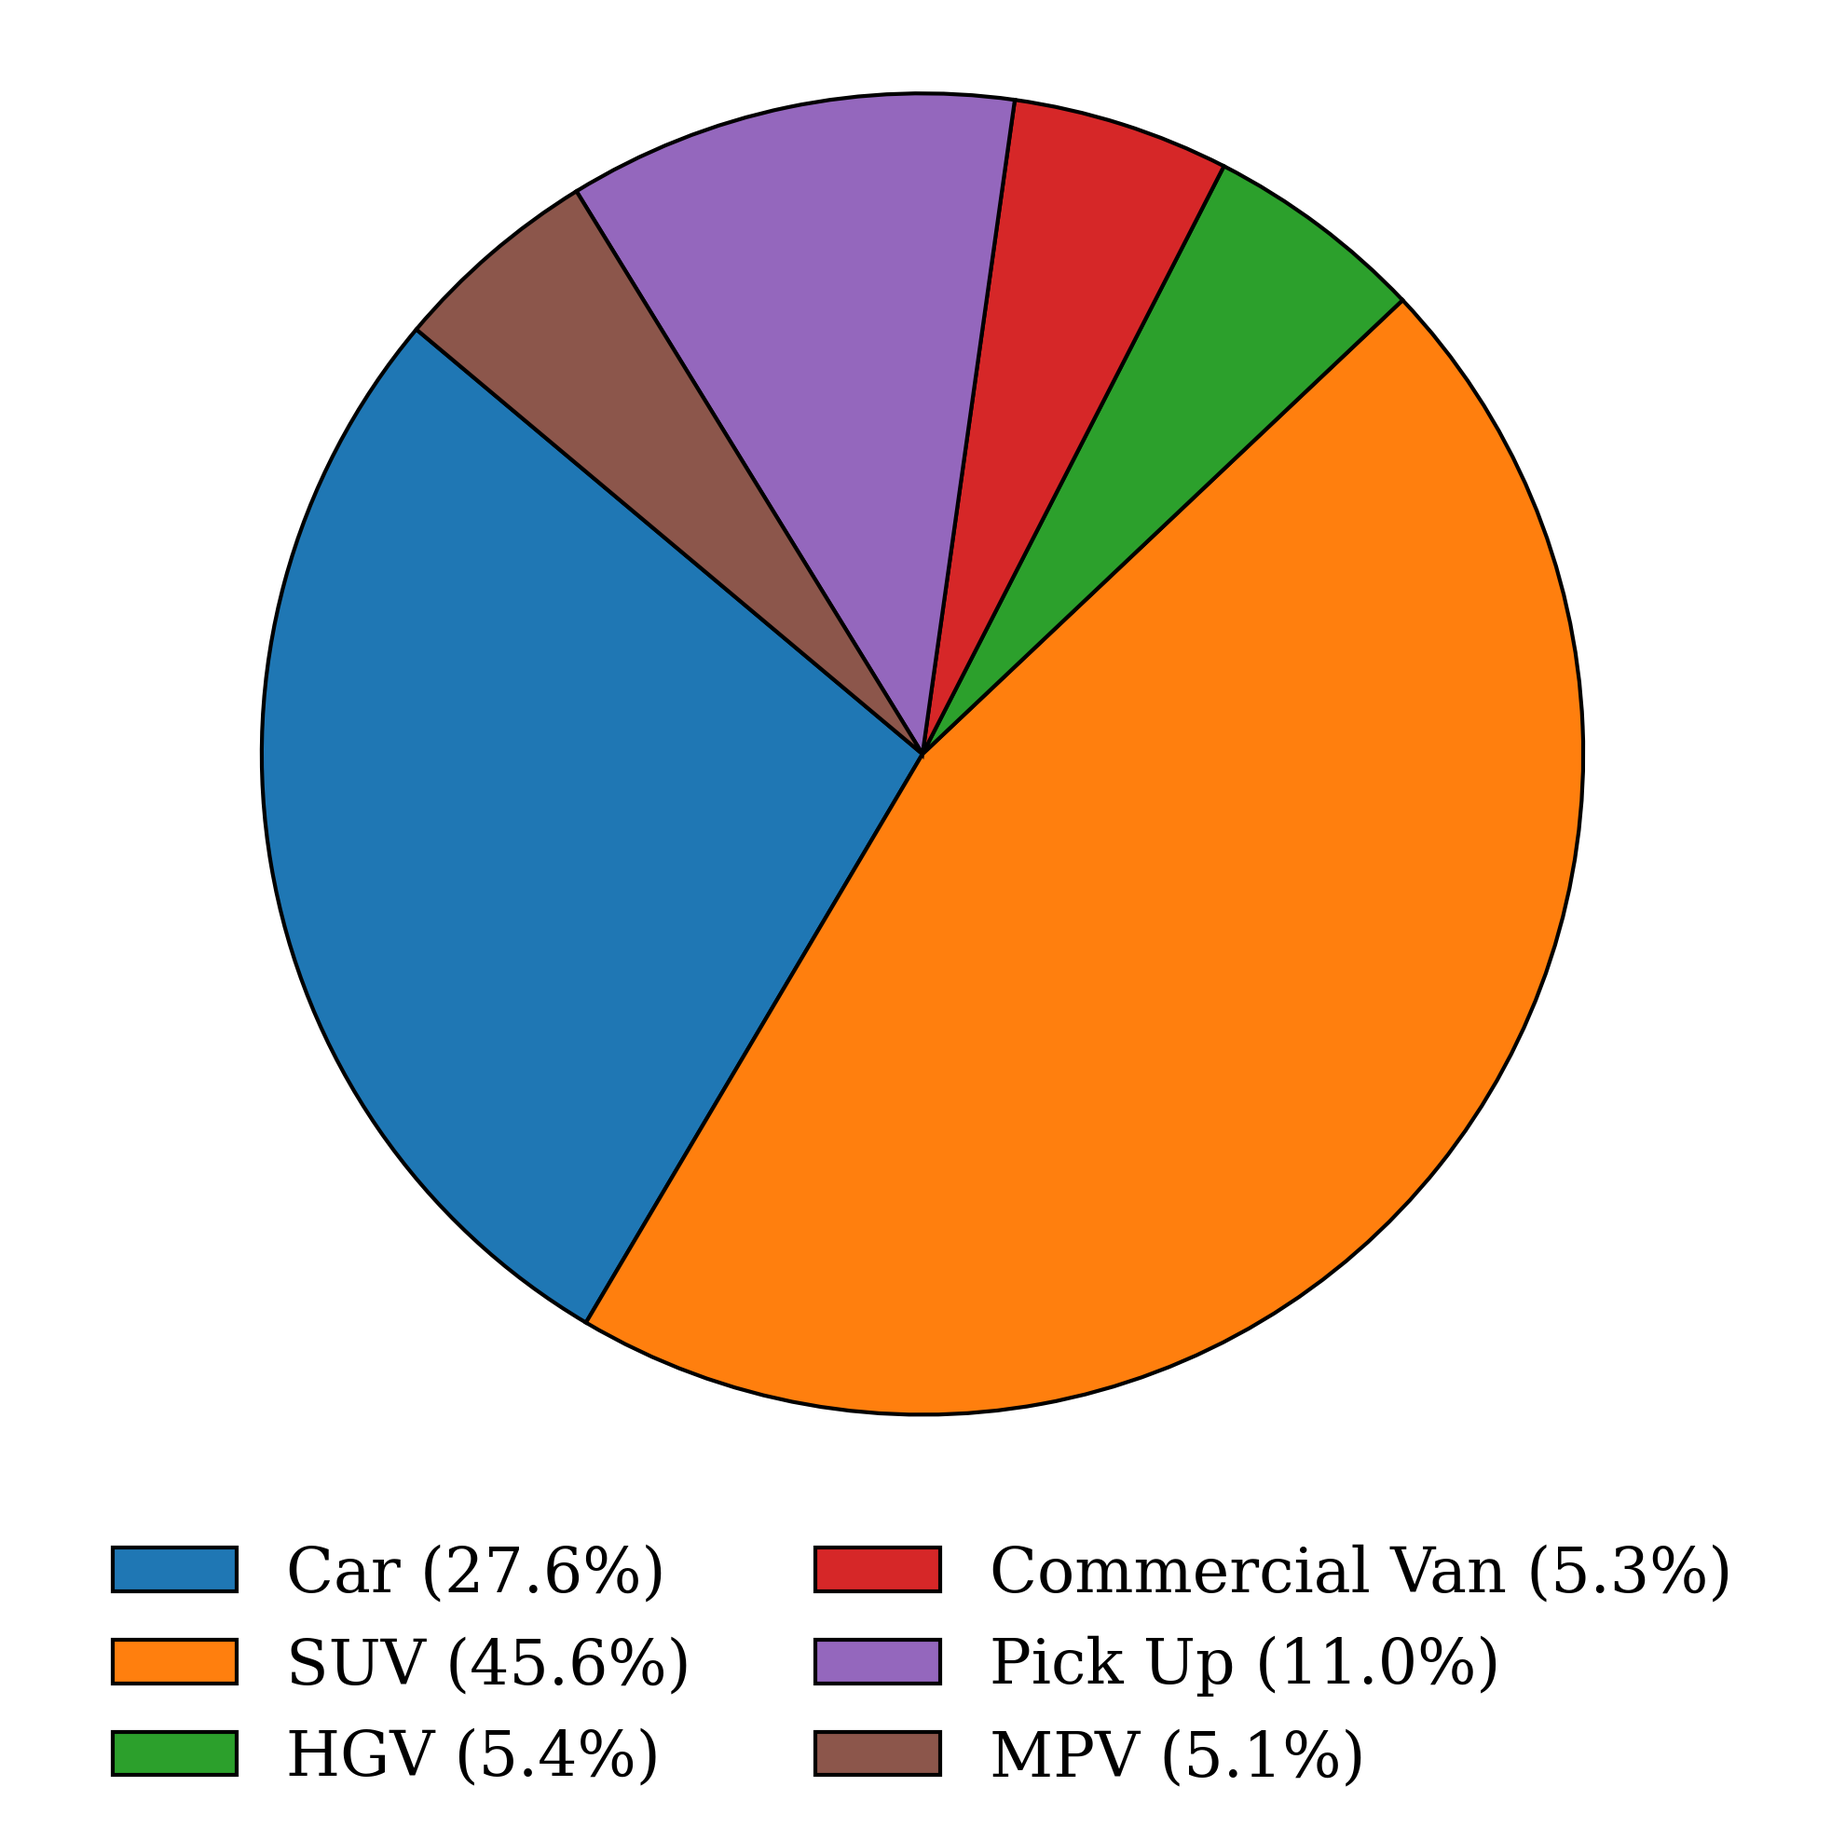
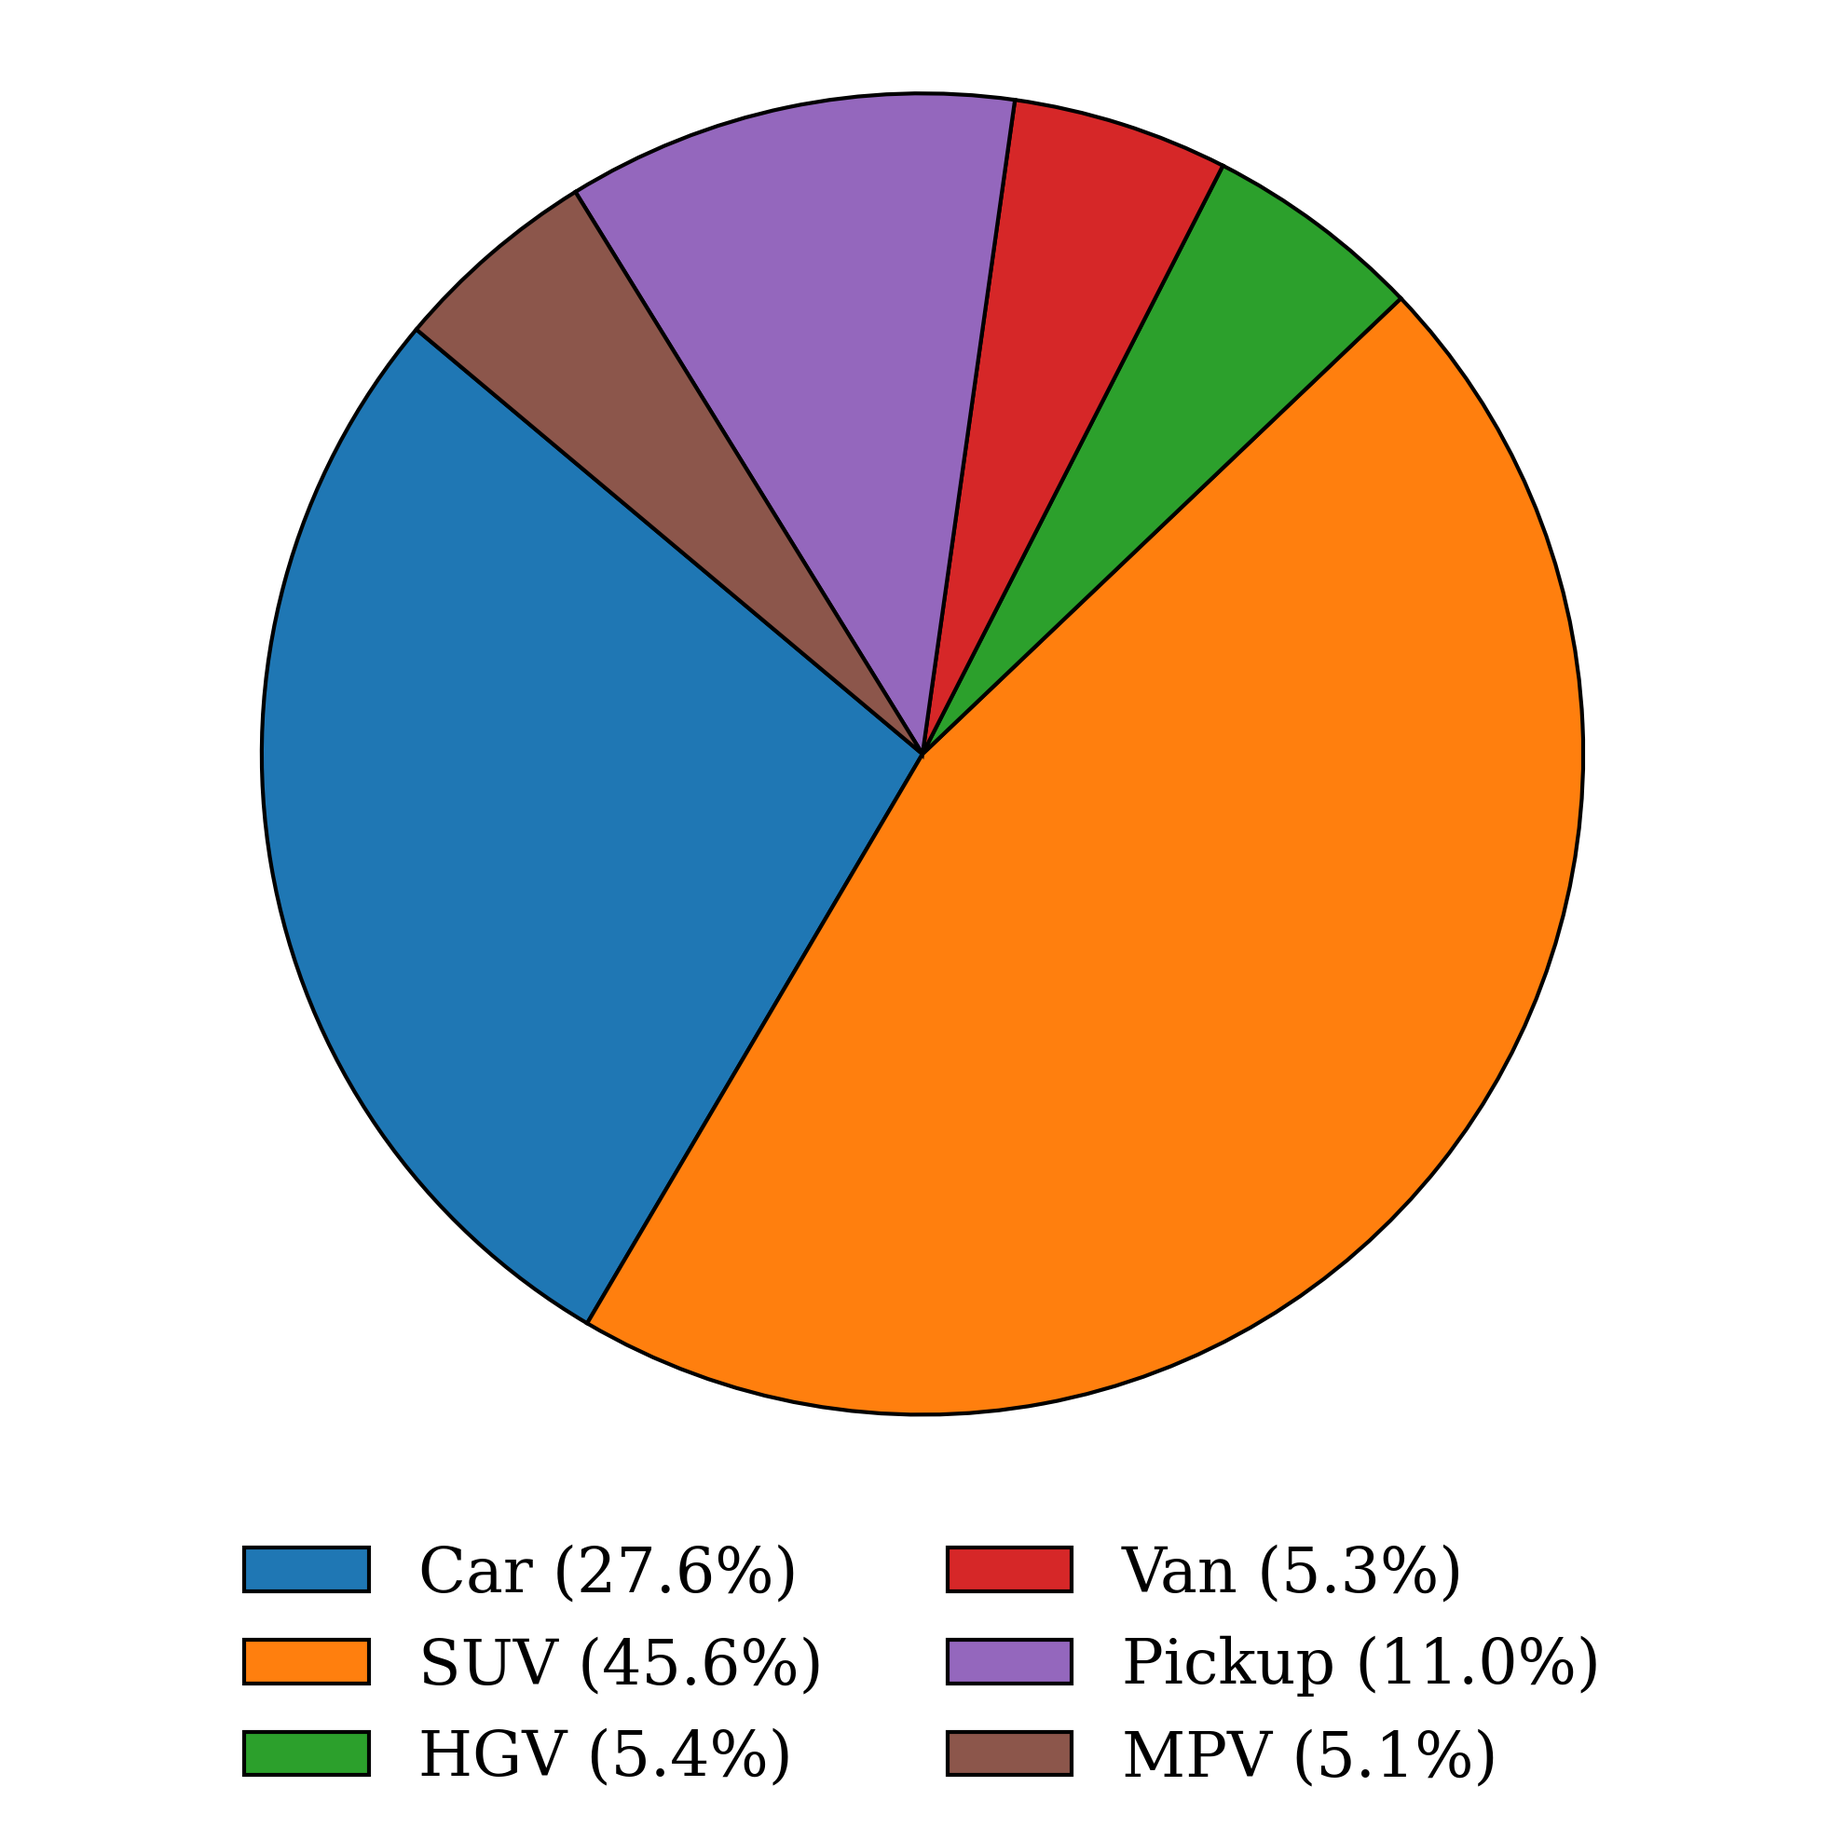
add CLM_GT tool

Changed region(s): [[0.0616, 0.8335, 0.9242, 0.9879], [0.7086, 0.1852, 0.7394, 0.2161]]

diff --git a/utils/CLM_GT.py b/utils/CLM_GT.py
@@ -1,0 +1,157 @@
+#!/usr/bin/env python3
+# coding: utf-8
+
+"""
+Compute inter-camera time transitions (in frames) from multi-camera GT.
+Only adjacent cameras are considered: (1<->2), (2<->3), (3<->4).
+
+GT line format (space-separated):
+cam_id track_id frame_id x1 y1 w h xworld yworld
+"""
+
+import argparse
+import json
+from collections import defaultdict
+from pathlib import Path
+
+ADJACENT_PAIRS = [(1, 2), (2, 3), (3, 4)]  # define adjacency once
+
+
+def read_mcgt(gt_path):
+    """
+    Read multi-camera tracking ground truth.
+
+    Each line is:
+        cam_id track_id frame_id x1 y1 w h xworld yworld
+
+    Returns:
+        dict[int, list[dict]]: track_id -> list of {cam_id, frame_num, bbox}
+    """
+    mcgt_data = defaultdict(list)
+    with open(gt_path, "r") as f:
+        for raw in f:
+            line = raw.strip()
+            if not line or line.startswith("#"):
+                continue
+            parts = line.split()
+            # Expect 9 tokens; tolerate extra tokens by slicing
+            if len(parts) < 9:
+                continue
+
+            cam_id, track_id, frame_num = map(int, parts[:3])
+            x1, y1, width, height = map(float, parts[3:7])
+            # xworld, yworld = map(float, parts[7:9])  # not used here
+
+            mcgt_data[track_id].append(
+                {
+                    "cam_id": cam_id,
+                    "frame_num": frame_num,
+                    "bbox": [x1, y1, width, height],
+                }
+            )
+    return mcgt_data
+
+
+def _init_transitions(cam_ids):
+    transitions = {}
+    for a, b in ADJACENT_PAIRS:
+        if a in cam_ids and b in cam_ids:
+            transitions[f"{a}_to_{b}"] = []
+            transitions[f"{b}_to_{a}"] = []
+    return transitions
+
+
+def get_time_transition_gt(mcgt_data, cam_id_list=(1, 2, 3, 4)):
+    """
+    For each track, compute time gaps (in frames) between adjacent cameras.
+    If the last frame in cam A is earlier than the first frame in cam B,
+    we record (min_frame_B - max_frame_A) under 'A_to_B'.
+
+    Overlapping or out-of-order appearances are ignored for that direction.
+
+    Returns:
+        dict[str, list[int]]: e.g., {'1_to_2':[...], '2_to_1':[...], ...}
+    """
+    cam_transition = _init_transitions(set(cam_id_list))
+
+    for track_id, entries in mcgt_data.items():
+        # Aggregate per-camera min/max frame for this track
+        per_cam = {}
+        for e in entries:
+            cam = e["cam_id"]
+            if cam not in cam_id_list:
+                continue
+            f = e["frame_num"]
+            if cam not in per_cam:
+                per_cam[cam] = {"min": f, "max": f}
+            else:
+                if f < per_cam[cam]["min"]:
+                    per_cam[cam]["min"] = f
+                if f > per_cam[cam]["max"]:
+                    per_cam[cam]["max"] = f
+
+        # For each adjacent pair, try both directions
+        for a, b in ADJACENT_PAIRS:
+            if a in per_cam and b in per_cam:
+                # a -> b
+                gap_ab = per_cam[b]["min"] - per_cam[a]["max"]
+                if gap_ab >= 0:
+                    cam_transition[f"{a}_to_{b}"].append(int(gap_ab)/15)
+
+                # b -> a
+                gap_ba = per_cam[a]["min"] - per_cam[b]["max"]
+                if gap_ba >= 0:
+                    cam_transition[f"{b}_to_{a}"].append(int(gap_ba)/15)
+
+    return cam_transition
+
+
+def summarize(cam_transition):
+    """Create a compact summary (count, mean, median) per direction."""
+    import statistics
+
+    summary = {}
+    for k, vals in cam_transition.items():
+        if len(vals) == 0:
+            summary[k] = {"count": 0, "mean": None, "median": None, "min": None, "max": None}
+        else:
+            summary[k] = {
+                "count": len(vals),
+                "mean": float(sum(vals) / len(vals)),
+                "median": float(statistics.median(vals)),
+                "min": int(min(vals)),
+                "max": int(max(vals)),
+            }
+    return summary
+
+
+def main():
+    parser = argparse.ArgumentParser(description="Compute inter-camera time transitions from MC GT.")
+    parser.add_argument("gt_path", type=str, help="Path to ground-truth txt file.")
+    parser.add_argument("--save_json", action="store_true", help="Flag to save transitions & summary to JSON file.")
+    parser.add_argument("--cams", type=int, nargs="+", default=[1, 2, 3, 4], help="Cameras to include (default: 1 2 3 4)")
+    args = parser.parse_args()
+
+    mcgt_data = read_mcgt(args.gt_path)
+    cam_transition = get_time_transition_gt(mcgt_data, cam_id_list=tuple(args.cams))
+    summary = summarize(cam_transition)
+
+    print("\n=== Transition Summary (gaps in frames) ===")
+    for k in sorted(cam_transition.keys()):
+        s = summary[k]
+        print(
+            f"{k:8s}  count={s['count']:4d}  "
+            f"mean={s['mean']:.2f}  median={s['median']:.2f}  "
+            f"min={s['min']}  max={s['max']}"
+            if s["count"] > 0
+            else f"{k:8s}  count=0"
+        )
+
+    if args.save_json:
+        with open(Path('MTC_time_transition_GT.json'), "w") as f:
+            json.dump(cam_transition, f)
+        print(f"\nSaved transitions & summary to: {args.save_json}")
+
+
+if __name__ == "__main__":
+    main()

diff --git a/utils/mcvt_vis.py b/utils/mcvt_vis.py
@@ -1,0 +1,110 @@
+import cv2
+import os
+import numpy as np
+
+def get_color(track_id):
+    """
+    Generate a color based on the track ID.
+    """
+    np.random.seed(int(track_id) % 1000)  # Seed for consistent color
+    color = np.random.randint(0, 255, 3).tolist()
+    return tuple(map(int, color))
+
+def frame_process(frames, cam_lists, track_dict, frame_id):
+    """
+    Process frames and draw bounding boxes with consistent color per track ID.
+    """
+    for i, frame in enumerate(frames):
+        cam_id = cam_lists[i][-1]  # e.g., '1' from 'imagesc001'
+        cv2.putText(frame, f"Cam {cam_id}", (10, 75), cv2.FONT_HERSHEY_SIMPLEX, 3, (0, 0, 0), thickness=8)
+        if cam_id in track_dict:
+            if str(frame_id) in track_dict[cam_id]:
+                for track_id, bbox in track_dict[cam_id][str(frame_id)]:
+                    x1, y1, x2, y2 = bbox
+                    color = get_color(track_id)
+                    cv2.rectangle(frame, (int(x1), int(y1)), (int(x2), int(y2)), color, 2)
+                    cv2.putText(frame, f"{track_id}", (int(x1), int(y1) - 10),
+                                cv2.FONT_HERSHEY_SIMPLEX, 1.5, color, 3)
+    return frames
+
+
+def read_tracks(GT_dir):
+# {cam_num} {id_index} {frame_num} {x1:.2f} {y1:.2f} {width:.2f} {height:.2f} {xworld} {yworld}
+    track_dict = {}
+    with open(GT_dir, 'r') as f:
+        for line in f:
+            parts = line.strip().split(' ')
+            cam_id = parts[0]
+            track_id = parts[1]
+            frame_id = parts[2]
+            x1 = float(parts[3])
+            y1 = float(parts[4])
+            w = float(parts[5])
+            h = float(parts[6])
+            if cam_id not in track_dict:
+                track_dict[cam_id] = {}
+            if frame_id not in track_dict[cam_id]:
+                track_dict[cam_id][frame_id] = []
+            track_dict[cam_id][frame_id].append((track_id, [x1, y1, x1 + w, y1 + h]))
+    return track_dict
+
+
+if __name__ == "__main__":
+    cam_list = ['imagesc001', 'imagesc002', 'imagesc003','imagesc004']
+    base_dir = '/home/yuqiang/yl4300/project/MCVT_YQ/datasets/AIC22_Track1_MTMC_Tracking/test/carmel/'
+    GT_dir = 'Multi_CAM_Ground_Turth.txt'
+    track_dict = read_tracks(GT_dir)
+    
+    video_list = [os.path.join(base_dir, cam[-4:], 'trimmed_video.mp4') for cam in cam_list]
+    caps = [cv2.VideoCapture(path) for path in video_list]
+
+    # Get frame size (assume all videos have the same size)
+    frame_width = int(caps[0].get(cv2.CAP_PROP_FRAME_WIDTH))
+    frame_height = int(caps[0].get(cv2.CAP_PROP_FRAME_HEIGHT))
+    fps = int(caps[0].get(cv2.CAP_PROP_FPS))
+
+    # Output size: 2x2 grid
+    out_width = frame_width * 2
+    out_height = frame_height * 2
+
+    # Output video writer
+    out = cv2.VideoWriter(
+        "output_grid.mp4",
+        cv2.VideoWriter_fourcc(*'mp4v'),
+        fps,
+        (out_width, out_height)
+    )
+
+    frame_id = 1
+    while True:
+        rets, frames = zip(*[cap.read() for cap in caps])
+
+        # Stop if any video ends
+        if not all(rets):
+            break
+
+        frame_process(frames, cam_list,track_dict,frame_id)
+
+        # Resize or pad if needed (optional, assuming same size here)
+        # Arrange in 2x2 grid
+        top_row = np.hstack((frames[0], frames[1]))
+        bottom_row = np.hstack((frames[2], frames[3]))
+        grid = np.vstack((top_row, bottom_row))
+
+        # Write to output
+        out.write(grid)
+
+        # Optional: display for debug
+        # cv2.imshow("Multi-Cam View", grid)
+        # if cv2.waitKey(1) & 0xFF == ord('q'):
+        #     break
+
+        frame_id += 1  # Increment frame_id for each loop
+        print(f"\rProcessed frame {frame_id}", end='', flush=True)
+
+    # Release resources
+    for cap in caps:
+        cap.release()
+    out.release()
+    cv2.destroyAllWindows()
+

diff --git a/utils/CLM_vis.py b/utils/CLM_vis.py
@@ -1,0 +1,71 @@
+#!/usr/bin/env python3
+# coding: utf-8
+
+"""
+Visualize inter-camera time transition KDE.
+"""
+
+import argparse
+import json
+from pathlib import Path
+
+import numpy as np
+import matplotlib.pyplot as plt
+from sklearn.neighbors import KernelDensity
+
+
+def load_data(json_path, direction):
+    with open(json_path, "r") as f:
+        data_dict = json.load(f)
+    if direction not in data_dict:
+        raise ValueError(f"Direction '{direction}' not found in JSON keys: {list(data_dict.keys())}")
+    data = np.array(data_dict[direction], dtype=float)
+    if data.size == 0:
+        raise ValueError(f"No data for direction {direction}")
+    return data
+
+
+def plot_kde(data, bandwidth=5.0,  direction=""):
+    """
+    Args:
+        data: np.ndarray of frame gaps
+        bandwidth: KDE bandwidth in frame units
+        fps: frames per second (convert to seconds)
+        direction: for plot title
+    """
+    # Convert to seconds
+    data_sec = data 
+    kde = KernelDensity(kernel="gaussian", bandwidth=bandwidth)
+    kde.fit(data_sec.reshape(-1, 1))
+
+    # Evaluate KDE on a grid
+    x_d = np.linspace(0, 200, 200).reshape(-1, 1)
+    log_density = kde.score_samples(x_d)
+    density = np.exp(log_density)
+
+    # Plot
+    plt.figure(figsize=(8, 4))
+    plt.fill_between(x_d.flatten(), density, alpha=0.5, color="skyblue")
+    plt.plot(data_sec, np.full_like(data_sec, -0.005), "|k", markeredgewidth=1)
+    plt.title(f"KDE of Time Transition ({direction})")
+    plt.xlabel("Time Transition (seconds)")
+    plt.ylabel("Density")
+    plt.grid(True, alpha=0.3)
+    plt.show()
+
+
+def main():
+    parser = argparse.ArgumentParser(description="Visualize KDE of camera time transitions.")
+    parser.add_argument("json_path", type=str, help="Path to MTC_time_transition_GT.json")
+    parser.add_argument("--direction", type=str, required=True, help="Transition direction (e.g., '1_to_2')")
+    parser.add_argument("--bandwidth", type=float, default=5.0, help="KDE bandwidth (frames)")
+    args = parser.parse_args()
+
+    data = load_data(Path(args.json_path), args.direction)
+    plot_kde(data, bandwidth=args.bandwidth,  direction=args.direction)
+
+
+if __name__ == "__main__":
+    main()
+
+# example usage: python CLM_vis.py MTC_time_transition_GT.json --direction 2_to_3

diff --git a/utils/det_results_crop_tool.py b/utils/det_results_crop_tool.py
@@ -21,9 +21,9 @@ for seq in seqs:
     # Original images directory for this sequence
     img_dir = os.path.join(base_img_dir, seq, 'img1')
     # Filtered label files directory
-    label_filtered_dir = os.path.join(base_label_dir, seq, 'labels_filtered')
+    label_filtered_dir = os.path.join(base_label_dir, seq, 'labels_sct2det')
     # Output directory for cropped detection images
-    output_dir = os.path.join(base_label_dir, seq, 'dets_corrected')
+    output_dir = os.path.join(base_label_dir, seq, 'dets_sct2det')
     os.makedirs(output_dir, exist_ok=True)
     
     # Get all label files in the labels_filtered directory
@@ -94,7 +94,7 @@ for seq in seqs:
             print(f"Saved cropped image: {det_img_path}")
             det_num += 1
 
-    output_pkl_path = os.path.join(base_label_dir, seq, f'{seq}_dets.pkl')
+    output_pkl_path = os.path.join(base_label_dir, seq, f'{seq}_sct2dets.pkl')
     with open(output_pkl_path, 'wb') as pkl_file:
         pickle.dump(out_dict, pkl_file)
 

diff --git a/utils/read_reid_dict.py b/utils/read_reid_dict.py
@@ -67,7 +67,7 @@ def read_data(df, cam_id1, cam_id2, name, reid_dict):
         if pd.isna(track_id) or pd.isna(df['Exit'][index]):
             print(f"Skipping track id:{track_id} in {cam_id1} and track id:{df['Exit'][index]} in {cam_id2} due to None values in track_id or Exit.")
             continue
-
+        
         if track_id not in reid_dict[name][cam_id1]:
             reid_dict[name][cam_id1][track_id] = {}
 

diff --git a/utils/vehicle_statistics.py b/utils/vehicle_statistics.py
@@ -57,8 +57,14 @@ def cat_rename(category):
         return 'HGV'
     elif category == 'Small Passenger Vehicles':
         return 'Car'
+    elif category == 'Commercial Van':
+        return 'Van'
+    elif category == 'Pick Up':
+        return 'Pickup'
     else:
+        print(f"Unknown category: {category}")
         return category
+    
     
 def draw_pie_charts(allinfo_dict, color_scheme='Set3'):
     """

diff --git a/utils/sct2det.py b/utils/sct2det.py
@@ -1,6 +1,5 @@
 import os 
 
-
 def read_mot(mot_file):
     det_data = {}
     with open(mot_file, 'r') as f:
